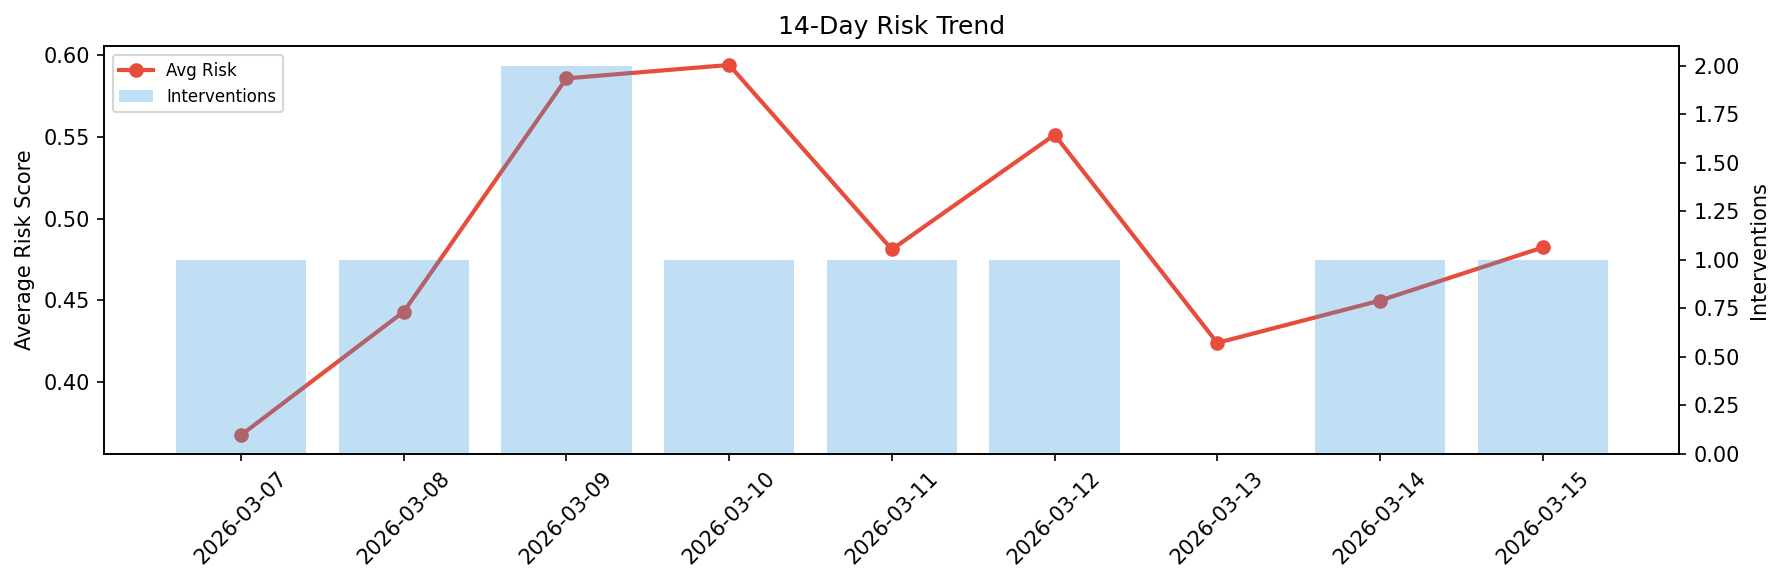
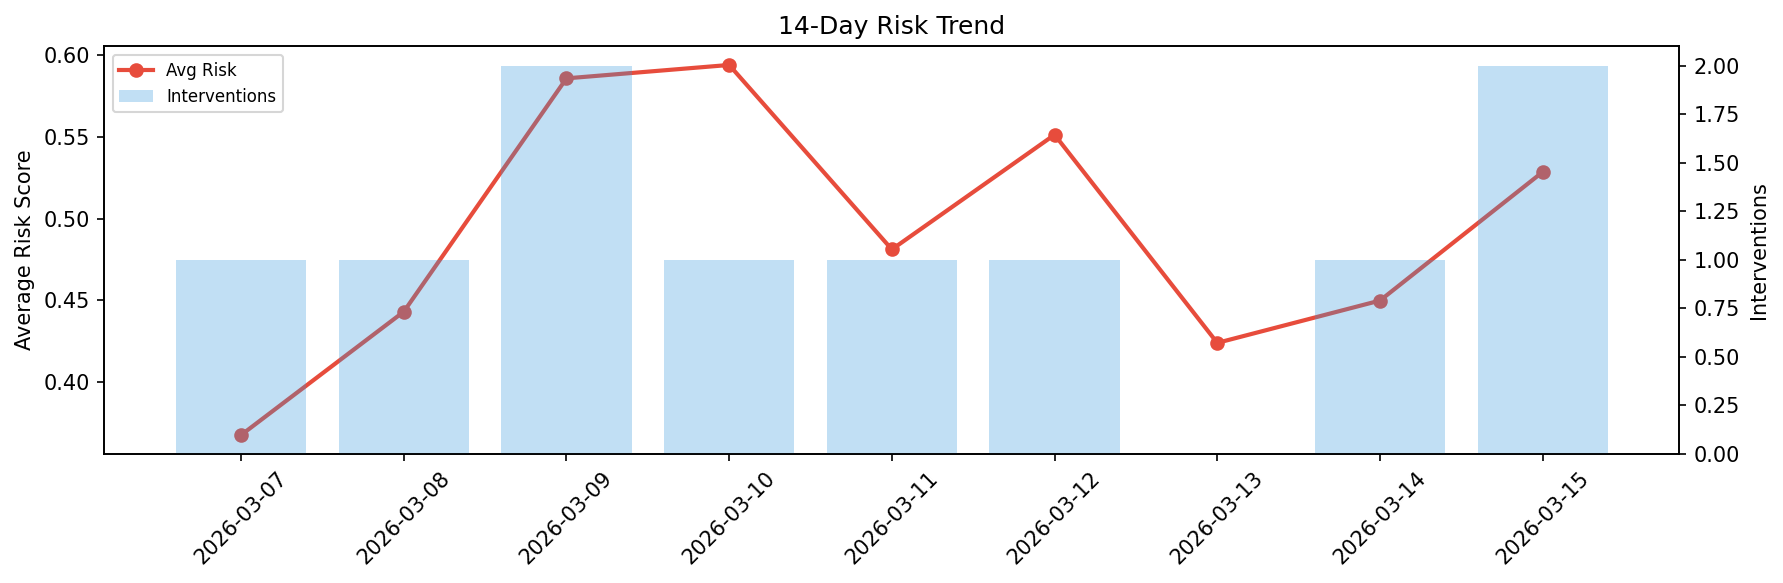
agent-improvement: daily cycle 2026-03-15T08:55

Changed region(s): [[0.7712, 0.0926, 0.9254, 0.5249]]

diff --git a/logs/2026-03-15.md b/logs/2026-03-15.md
@@ -1,6 +1,6 @@
 # Agent Improvement Report — 2026-03-15
 
-**Cycle ID:** `b5bb93e0` | **Avg Risk:** 0.4824 | **Interventions:** 1/4
+**Cycle ID:** `1a38dca3` | **Avg Risk:** 0.5286 | **Interventions:** 2/4
 
 ![Dashboard](2026-03-15_dashboard.png)
 
@@ -10,18 +10,18 @@
 
 | Domain | Risk Score | Decision | Alerts |
 |--------|-----------|----------|--------|
-| code_review | 0.3333 | monitor | coverage |
-| incident_response | 0.6137 | intervene | mttr |
-| data_pipeline | 0.4714 | monitor | volume_anomaly |
-| deployment | 0.5111 | monitor | canary_error |
+| code_review | 0.4688 | monitor | none |
+| incident_response | 0.6058 | intervene | severity |
+| data_pipeline | 0.7933 | intervene | freshness, schema_drift |
+| deployment | 0.2466 | monitor | none |
 
 ## Delta vs Yesterday
 
 | Domain | Today | Yesterday | Change |
 |--------|-------|-----------|--------|
-| code_review | 0.3333 | 0.5117 | 📉 -34.9% |
-| incident_response | 0.6137 | 0.2326 | 📈 163.8% |
-| data_pipeline | 0.4714 | 0.6033 | 📉 -21.9% |
-| deployment | 0.5111 | 0.4519 | 📈 13.1% |
+| code_review | 0.4688 | 0.5117 | 📉 -8.4% |
+| incident_response | 0.6058 | 0.2326 | 📈 160.4% |
+| data_pipeline | 0.7933 | 0.6033 | 📈 31.5% |
+| deployment | 0.2466 | 0.4519 | 📉 -45.4% |
 
-**Refinement:** `{'adjustment': 'tighten_thresholds', 'trend': 'degrading', 'window': 4}`
+**Refinement:** `{'adjustment': 'maintain', 'trend': 'improving', 'window': 4}`
